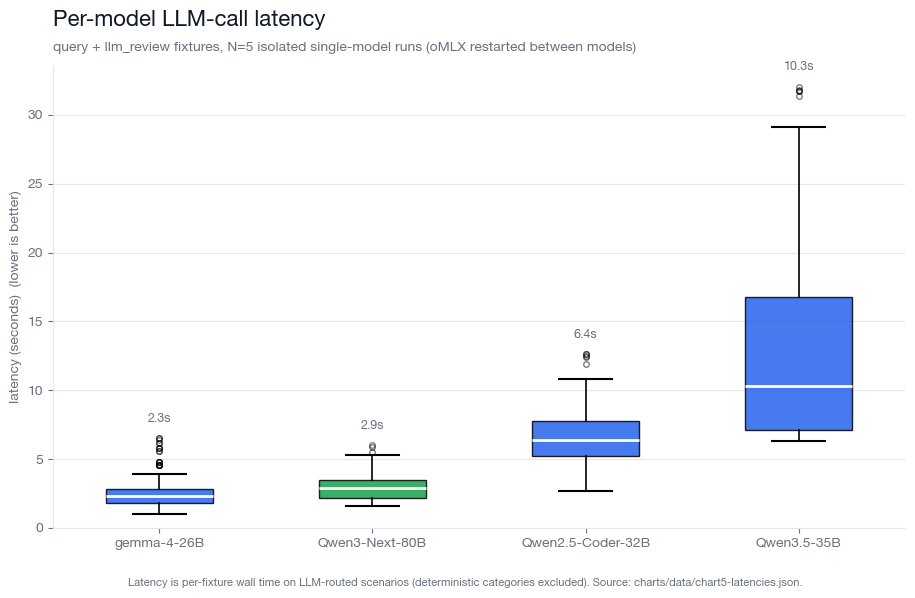
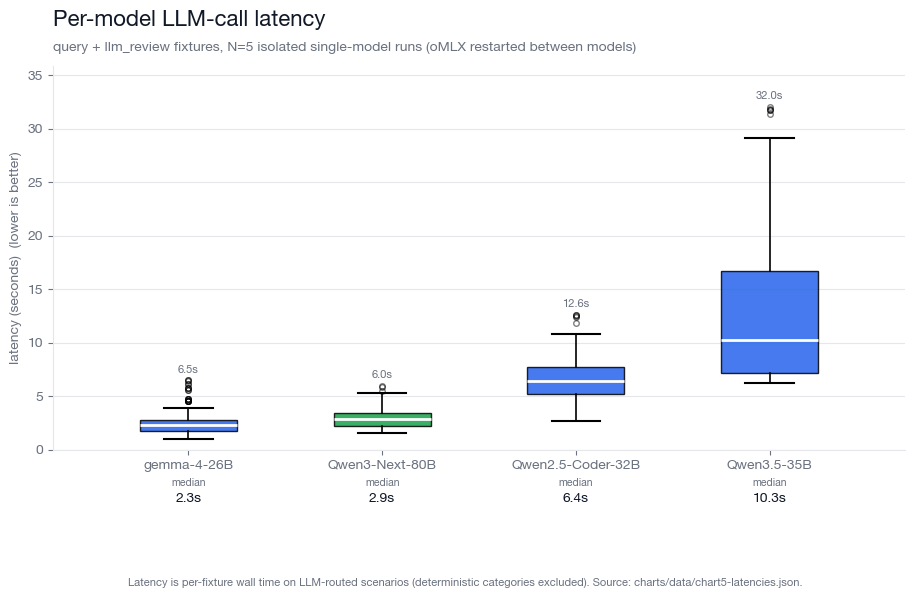
charts(latency-box): move median into the x-axis label stack
Mirrors the private-repo chart 5 reformat: slowest sample above the
whisker, then model name / "median" / bold median time in the x-axis
stack. Re-renders light + dark.

diff --git a/charts/src/samantha_charts/charts/latency_box.py b/charts/src/samantha_charts/charts/latency_box.py
@@ -126,24 +126,54 @@ def render_latency_box(
 
     ax.set_xticks(list(range(len(ordered_names))))
     ax.set_xticklabels(labels, fontsize=10)
-    ax.set_ylim(bottom=0)
+    ax.set_xlim(-0.7, len(ordered_names) - 1 + 0.7)
 
-    # Annotate each box's median just above the top whisker.  Compute the
-    # offset after ylim is final so the percentage-of-range calculation is
-    # stable regardless of autoscaling order.
+    # Headroom above the tallest box for the "slowest sample" labels.
+    overall_max = max(max(samples) for samples in box_data)
+    ax.set_ylim(0, overall_max * 1.12)
+
+    # Reserve room beneath the axis for the stacked median labels that sit
+    # under each model name (drawn below in axis-fraction y).
+    fig.subplots_adjust(bottom=0.24)
+
     y_range = ax.get_ylim()[1] - ax.get_ylim()[0]
+    xtrans = ax.get_xaxis_transform()  # x in data coords, y in axis fraction
     for i, name in enumerate(ordered_names):
-        med = statistics.median(data[name])
-        y_top = max(data[name])
+        samples = data[name]
+        med = statistics.median(samples)
+        y_max = max(samples)
+        # Slowest sample, just above the top whisker / fliers (uncaptioned).
         ax.text(
             i,
-            y_top + 0.03 * y_range,
-            f"{med:.1f}s",
+            y_max + 0.015 * y_range,
+            f"{y_max:.1f}s",
             ha="center",
             va="bottom",
-            fontsize=9,
-            fontweight="bold",
+            fontsize=8,
             color=style.subtitle_color(),
+        )
+        # Median stacked under the model name: a small "median" caption, then
+        # the value in bold at the model-name font size.
+        ax.text(
+            i,
+            -0.072,
+            "median",
+            transform=xtrans,
+            ha="center",
+            va="top",
+            fontsize=7.5,
+            color=style.subtitle_color(),
+        )
+        ax.text(
+            i,
+            -0.112,
+            f"{med:.1f}s",
+            transform=xtrans,
+            ha="center",
+            va="top",
+            fontsize=10,
+            fontweight="bold",
+            color=style.ink_color(),
         )
     ax.set_ylabel(
         "latency (seconds)  (lower is better)",
